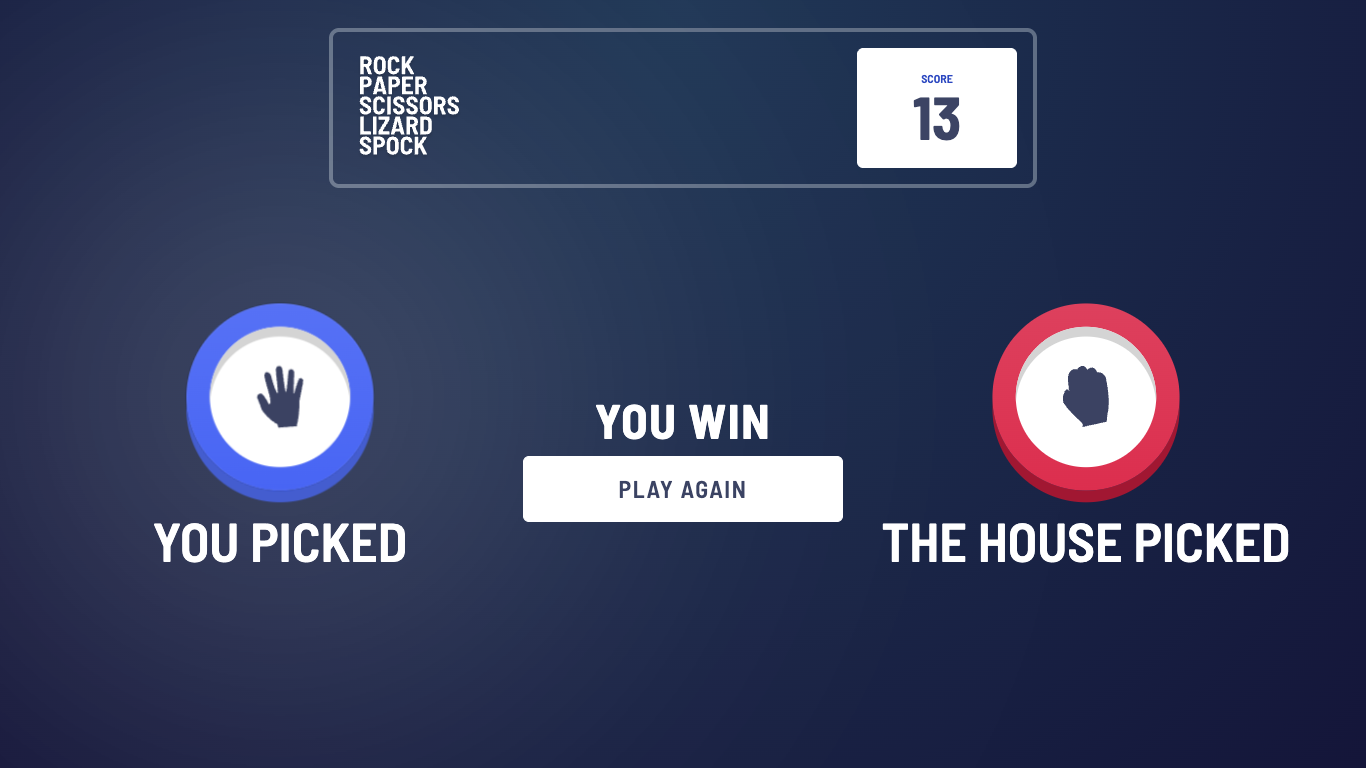
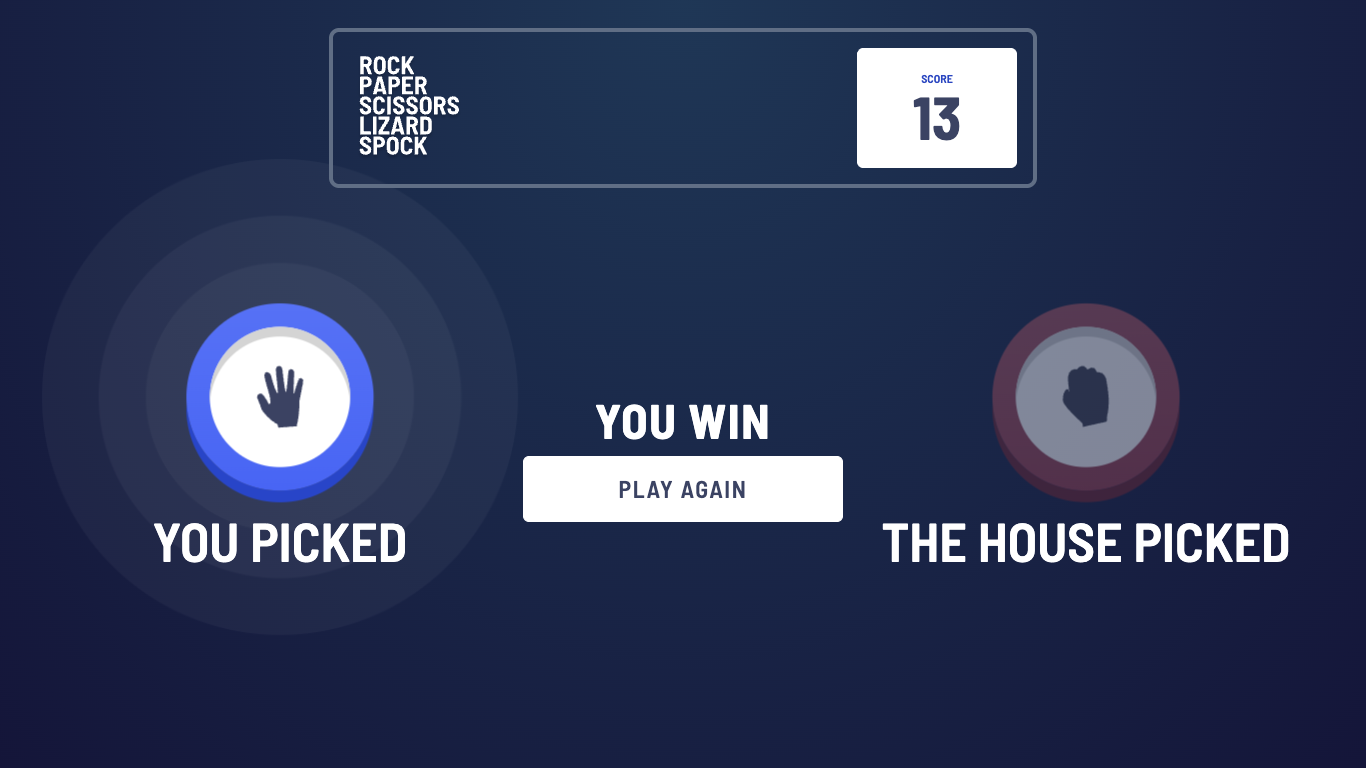
feat: staged winner reveal with rings, as in the design
- Three faint concentric rings grow behind the winning pick, one after
  another, then breathe slowly (replaces the blinking white glow)
- The reveal is staged: the house's pick pops in, rings and a dimmed,
  desaturated loser follow at 300 ms, the outcome and Play again rise in
- No ring or dimming on a draw
- CSS only; each element's normal style is its final state, so reduced
  motion shows the finished result without animation
- Header stays above the rings; README screenshots updated

Changed region(s): [[0.7072, 0.375, 0.8609, 0.6562], [0.1537, 0.5938, 0.246, 0.6562], [0.246, 0.5938, 0.2767, 0.625]]

diff --git a/src/index.css b/src/index.css
@@ -29,7 +29,6 @@
     --shadow-object-b: 0px 6px;
     --shadow-object-t: inset 0px 5px;
 
-    --shadow-object-b-w: 0px 0px 300px 30px;
 
     --animate-fade-in: fade-in 1s ease-in-out;
     @keyframes fade-in {
@@ -54,15 +53,87 @@
         }
     }
 
-    --animate-ping: ping 1s ease-in-out infinite;
-    @keyframes ping {
-        75%, 100% {
-            transform: scale(2);
-            opacity: 0;
-        }
-    }
 }
 
 body {
     font-family: var(--font-barlow), sans-serif;
+}
+
+/*
+ * Result reveal, staged from the moment the outcome is known:
+ *   0 ms     the house's pick pops in (end of the roulette)
+ *   300 ms   rings grow behind the winner, one after another; the loser dims
+ *   700 ms   the outcome text rises in, then Play again (850 ms)
+ * Each class's normal styles are its final state, so turning the animations
+ * off (reduced motion) still shows the finished result.
+ */
+.reveal-pop {
+    animation: reveal-pop 350ms ease-out both;
+}
+
+.reveal-ring {
+    --ring-delay: calc(300ms + var(--ring) * 120ms);
+    animation:
+        reveal-ring-in 600ms cubic-bezier(0.2, 0.8, 0.2, 1) var(--ring-delay) both,
+        reveal-ring-breathe 3.5s ease-in-out calc(var(--ring-delay) + 600ms) infinite;
+}
+
+.reveal-dim {
+    opacity: 0.45;
+    filter: saturate(0.5);
+    animation: reveal-dim 500ms ease-out 300ms both;
+}
+
+.reveal-rise {
+    animation: reveal-rise 450ms ease-out var(--rise-delay, 0ms) both;
+}
+
+@keyframes reveal-pop {
+    0% {
+        transform: scale(0.6);
+        opacity: 0;
+    }
+    60% {
+        transform: scale(1.08);
+        opacity: 1;
+    }
+    100% {
+        transform: scale(1);
+    }
+}
+
+@keyframes reveal-ring-in {
+    from {
+        transform: scale(0.4);
+        opacity: 0;
+    }
+}
+
+@keyframes reveal-ring-breathe {
+    50% {
+        transform: scale(1.04);
+    }
+}
+
+@keyframes reveal-dim {
+    from {
+        opacity: 1;
+        filter: none;
+    }
+}
+
+@keyframes reveal-rise {
+    from {
+        transform: translateY(1.5rem);
+        opacity: 0;
+    }
+}
+
+@media (prefers-reduced-motion: reduce) {
+    .reveal-pop,
+    .reveal-ring,
+    .reveal-dim,
+    .reveal-rise {
+        animation: none;
+    }
 }

diff --git a/src/views/Result.tsx b/src/views/Result.tsx
@@ -1,5 +1,5 @@
 import { memo } from "react";
-import { Option, Roulette } from "../components";
+import { Option, Roulette, WinnerRings } from "../components";
 import { TEXTS } from "../utils/constants.ts";
 import type { GameOption, Outcome } from "../utils/types.ts";
 
@@ -10,16 +10,34 @@ interface ResultProps {
   outcome: Outcome | null;
 }
 
+type Standing = "winner" | "loser" | "even";
+
+const standing = (outcome: Outcome | null, side: "user" | "house"): Standing => {
+  if (outcome === null || outcome === "draw") return "even";
+  const userWon = outcome === "win";
+  return (side === "user") === userWon ? "winner" : "loser";
+};
+
+/** A revealed pick: rings behind the winner, the loser dimmed. */
+const Pick = ({ option, status, pop }: { option: GameOption; status: Standing; pop?: boolean }) => (
+  <div className={`relative ${pop ? "reveal-pop" : ""}`} data-standing={status}>
+    {status === "winner" && <WinnerRings />}
+    <div className={status === "loser" ? "reveal-dim" : ""}>
+      <Option option={option} />
+    </div>
+  </div>
+);
+
 const Result = memo(({ userOption, houseOption, outcome }: ResultProps) => (
   <div className="flex w-sm justify-around animate-fade-in lg:mt-[10%] lg:w-full lg:justify-between">
     <div className="relative flex flex-col items-center justify-center lg:w-120 lg:scale-[1.5]">
-      <Option option={userOption} winner={outcome === "win"} />
+      <Pick option={userOption} status={standing(outcome, "user")} />
       <span className="mt-7 text-white lg:text-4xl">{TEXTS.PICKED}</span>
     </div>
 
     <div className="flex flex-col items-center justify-center lg:w-120 lg:scale-[1.5]">
       {outcome ? (
-        <Option option={houseOption} winner={outcome === "lose"} />
+        <Pick option={houseOption} status={standing(outcome, "house")} pop />
       ) : (
         <Roulette target={houseOption} />
       )}

diff --git a/src/Game.test.tsx b/src/Game.test.tsx
@@ -19,6 +19,9 @@ const setup = () => {
 
 const reveal = () => act(() => vi.advanceTimersByTime(REVEAL_DELAY_MS));
 const score = () => screen.getByTestId("score");
+/** "winner" (rings), "loser" (dimmed) or "even", for the revealed pick with this alt text. */
+const standingOf = (name: string) =>
+  screen.getByAltText(name).closest("[data-standing]")?.getAttribute("data-standing");
 
 describe("Game", () => {
   beforeEach(() => {
@@ -49,7 +52,9 @@ describe("Game", () => {
     reveal();
     expect(screen.getByRole("heading", { name: "YOU WIN" })).toBeInTheDocument();
     expect(screen.getByAltText("scissors")).toBeInTheDocument();
-    expect(screen.getAllByTestId("winner-glow")).toHaveLength(1);
+    expect(screen.getAllByTestId("winner-rings")).toHaveLength(1);
+    expect(standingOf("rock")).toBe("winner");
+    expect(standingOf("scissors")).toBe("loser");
     expect(score()).toHaveTextContent("1");
 
     await user.click(screen.getByRole("button", { name: "PLAY AGAIN" }));
@@ -68,7 +73,13 @@ describe("Game", () => {
     reveal();
     expect(screen.getByRole("heading", { name: text })).toBeInTheDocument();
     expect(score()).toHaveTextContent(total);
-    expect(screen.queryAllByTestId("winner-glow")).toHaveLength(text === "DRAW" ? 0 : 1);
+    expect(screen.queryAllByTestId("winner-rings")).toHaveLength(text === "DRAW" ? 0 : 1);
+    if (text === "YOU LOSE") {
+      expect(standingOf(house)).toBe("winner");
+      expect(standingOf(mine)).toBe("loser");
+    } else {
+      expect(screen.getAllByAltText(mine).map((img) => img.closest("[data-standing]")?.getAttribute("data-standing"))).toEqual(["even", "even"]);
+    }
   });
 
   it("can be played with the keyboard", async () => {

diff --git a/src/components/Button.tsx b/src/components/Button.tsx
@@ -24,16 +24,17 @@ const Button = ({ variant, label, onClick, heading }: ButtonProps) => {
 
   return (
     <div
-      className={`absolute bottom-16 mt-3 animate-fade-in text-center tracking-widest ${styles.wrapper}`}
+      className={`absolute bottom-16 mt-3 text-center tracking-widest ${heading ? "" : "animate-fade-in"} ${styles.wrapper}`}
     >
       {heading && (
-        <h2 className="text-5xl font-bold text-white" aria-live="polite">
+        // Rises in after the winner's rings (see "Result reveal" in index.css).
+        <h2 className="reveal-rise text-5xl font-bold text-white [--rise-delay:700ms]" aria-live="polite">
           {heading}
         </h2>
       )}
       <button
         type="button"
-        className={`mt-3 cursor-pointer rounded-md border border-white px-16 py-4 focus-visible:outline-4 focus-visible:outline-offset-2 focus-visible:outline-white ${styles.button}`}
+        className={`mt-3 cursor-pointer rounded-md border border-white px-16 py-4 focus-visible:outline-4 focus-visible:outline-offset-2 focus-visible:outline-white ${heading ? "reveal-rise [--rise-delay:850ms]" : ""} ${styles.button}`}
         onClick={onClick}
       >
         <span className={styles.text}>{label}</span>

diff --git a/src/components/Option.tsx b/src/components/Option.tsx
@@ -4,25 +4,16 @@ interface OptionProps {
   option: GameOption;
   /** When set, the option is a button; otherwise it only displays a pick. */
   onSelect?: (option: GameOption) => void;
-  winner?: boolean;
 }
 
 const BASE =
   "relative flex h-24 w-24 items-center justify-center rounded-full border-none lg:scale-[1.3]";
 
-const Option = ({ option, onSelect, winner = false }: OptionProps) => {
+const Option = ({ option, onSelect }: OptionProps) => {
   const content = (
-    <>
-      <span className="flex h-18 w-18 items-center justify-center rounded-full bg-white shadow-object-t shadow-neutral-300">
-        <img className="h-8 w-6" src={option.icon} alt={onSelect ? "" : option.name} />
-      </span>
-      {winner && (
-        <span
-          data-testid="winner-glow"
-          className="absolute h-18 w-18 animate-ping rounded-full bg-radial shadow-object-b-w shadow-white"
-        />
-      )}
-    </>
+    <span className="flex h-18 w-18 items-center justify-center rounded-full bg-white shadow-object-t shadow-neutral-300">
+      <img className="h-8 w-6" src={option.icon} alt={onSelect ? "" : option.name} />
+    </span>
   );
 
   const look = `${BASE} bg-linear-to-b shadow-object-b ${option.styles}`;

diff --git a/src/components/WinnerRings.tsx b/src/components/WinnerRings.tsx
@@ -1,0 +1,19 @@
+/**
+ * Three faint concentric rings behind the winning pick, as in the design.
+ * Sized from the option (inset), so the transform stays free for the animation.
+ */
+const RINGS = ["-inset-[20%]", "-inset-[45%]", "-inset-[75%]"] as const;
+
+const WinnerRings = () => (
+  <div data-testid="winner-rings" aria-hidden="true" className="absolute inset-0 lg:scale-[1.3]">
+    {RINGS.map((inset, i) => (
+      <span
+        key={inset}
+        className={`reveal-ring absolute ${inset} rounded-full bg-white/[0.04]`}
+        style={{ "--ring": i } as React.CSSProperties}
+      />
+    ))}
+  </div>
+);
+
+export default WinnerRings;

diff --git a/src/components/Score.tsx b/src/components/Score.tsx
@@ -6,7 +6,7 @@ interface ScoreProps {
 }
 
 const Score = ({ score }: ScoreProps) => (
-  <header className="absolute top-5 m-3 flex w-85/100 max-w-175 justify-between rounded-md p-4 outline-4 outline-neutral-outline">
+  <header className="absolute top-5 z-10 m-3 flex w-85/100 max-w-175 justify-between rounded-md p-4 outline-4 outline-neutral-outline">
     <img className="h-16 p-2 md:h-30" src={gameLogo} alt={TEXTS.TITLE} />
     <div className="flex h-16 w-1/4 flex-col justify-center rounded-md bg-white text-center md:h-30 md:w-40">
       <span className="text-xs font-light text-neutral-score">{TEXTS.SCORE}</span>

diff --git a/src/components/index.ts b/src/components/index.ts
@@ -2,4 +2,4 @@ export {default as Option} from './Option';
 export {default as Buttons} from './Buttons';
 export {default as Score} from './Score';
 export {default as Rules} from './Rules';
-export {default as Roulette} from './Roulette';
+export {default as Roulette} from './Roulette';export {default as WinnerRings} from './WinnerRings';

diff --git a/README.md b/README.md
@@ -18,7 +18,8 @@ between visits.
 
 - Play a round against the house: a roulette spins through the options, slows down and lands on
   the house's pick (a still slot instead when the system asks for reduced motion)
-- A glow on the winning pick, the outcome, and a score that goes up or down by one
+- A staged reveal: the house's pick pops in, rings grow behind the winner while the loser dims,
+  then the outcome rises in; the score goes up or down by one
 - The score is kept in `localStorage` and survives reloads (blocked or corrupt storage falls back to 0)
 - Rules dialog: closes with Escape, the close button or a click outside, and gives focus back to
   the Rules button
